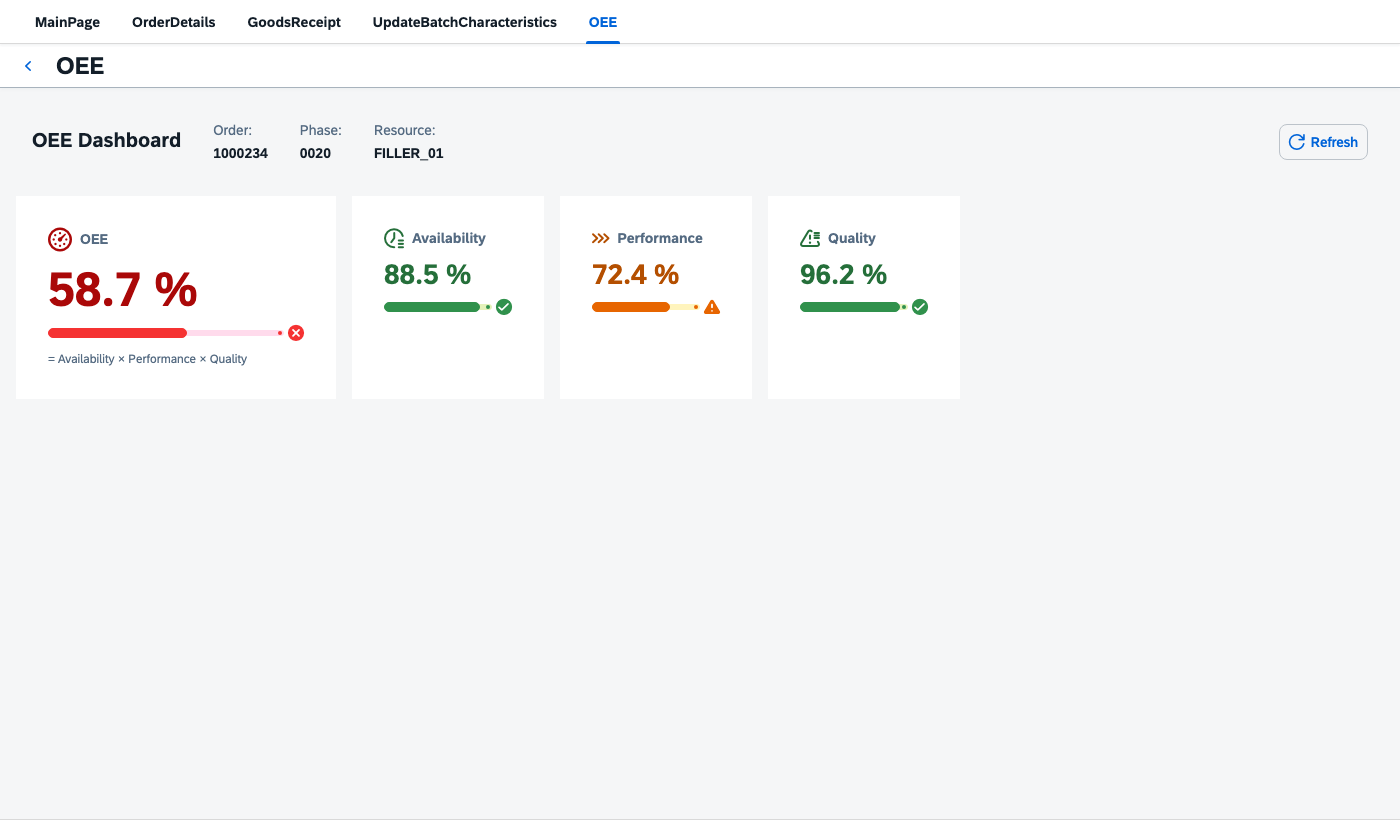
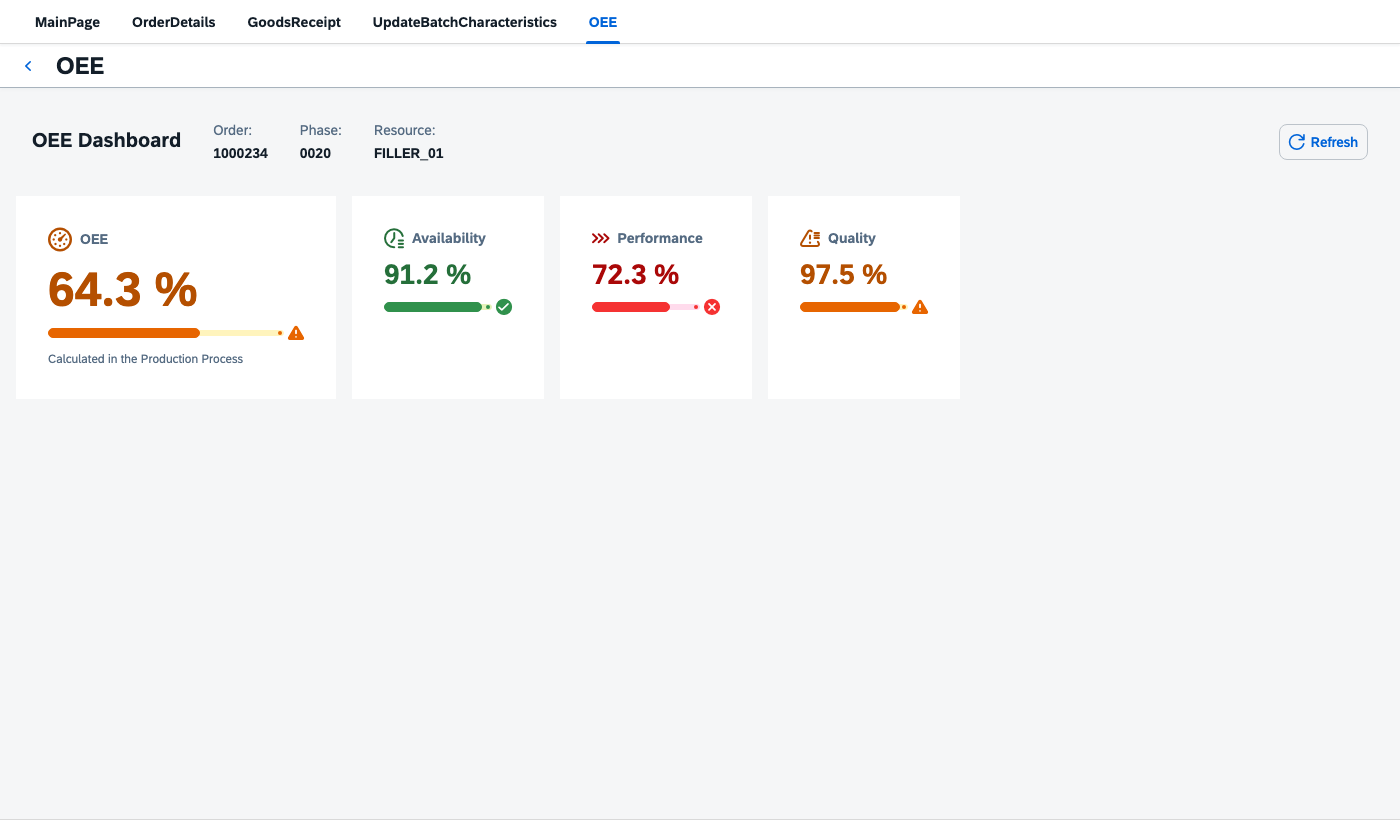
Review fixes: consistent OEE sample values, per-KPI thresholds, PP-calculated caption, wording

diff --git a/README.md b/README.md
@@ -13,7 +13,7 @@ Most POD requirements end in one of two places: hours of clicking in the designe
 
 This skill takes neither route. **No development happens.** Everything it generates is standard POD 2.0 configuration:
 
-- only **standard SAP plugins and actions**, taken from verified exports, never invented class names;
+- only **standard SAP plugins and actions**, limited to classes verified from real exports (anything unverified is flagged);
 - standard bindings and expressions on the **POD context** (`{/workList/…}`, `{/execution/…}`, `{= … }`);
 - data from **Production Processes** you already model in DM, called through the standard Production Process action.
 
@@ -45,7 +45,7 @@ You need **Node.js** (any recent LTS). The scripts use only Node built-ins: no `
 git clone https://github.com/robertriedel/POD2_Config_Skill.git
 ```
 
-- **Joule Desktop:** add the cloned folder as a skill in your Joule Desktop skill settings.
+- **Joule Desktop:** add the cloned folder as a skill in Joule Desktop (see the Joule Desktop documentation for where skills are configured).
 - **Claude Code:** clone it straight into the skills folder, then start a new session:
 
   ```bash
@@ -92,17 +92,19 @@ The spec is the whole design:
                { "label": "Resource", "path": "/execution/operationActivity/lastSelected/resource" } ],
   "fields": [
     { "source": "pp:outOEE", "label": "OEE", "scale": "percent", "thresholds": [60, 85],
-      "hero": true, "icon": "sap-icon://performance", "caption": "= Availability × Performance × Quality" },
-    { "source": "pp:outAvailability", "label": "Availability", "scale": "percent", "thresholds": [60, 85], "icon": "sap-icon://time-entry-request" },
-    { "source": "pp:outPerformance",  "label": "Performance",  "scale": "percent", "thresholds": [60, 85], "icon": "sap-icon://process" },
-    { "source": "pp:outQuality",      "label": "Quality",      "scale": "percent", "thresholds": [60, 85], "icon": "sap-icon://quality-issue" }
+      "hero": true, "icon": "sap-icon://performance", "caption": "Calculated in the Production Process" },
+    { "source": "pp:outAvailability", "label": "Availability", "scale": "percent", "thresholds": [80, 90], "icon": "sap-icon://time-entry-request" },
+    { "source": "pp:outPerformance",  "label": "Performance",  "scale": "percent", "thresholds": [80, 95], "icon": "sap-icon://process" },
+    { "source": "pp:outQuality",      "label": "Quality",      "scale": "percent", "thresholds": [95, 99], "icon": "sap-icon://quality-issue" }
   ]
 }
 ```
 
-**Page enter.** Because the spec targets a page, the data load is wired to the page's own `pageEnter` event: `OEE_Busy` (BusyIndicator) → `OEE_LoadData` (synchronous Production Process call, output stored in the POD variable `_oee`). The tiles bind to `/_oee/…`, so they fill as soon as the page opens; until then they show "–". Refresh re-runs the same chain. A tab target uses `tabEnter` the same way.
+**Page enter.** Because the spec targets a page, the data load is wired to the page's own `pageEnter` event: `OEE_Busy` (BusyIndicator) → `OEE_LoadData` (Production Process call, output stored in the POD variable `_oee`). The tiles bind to `/_oee/…`, so they fill as soon as the page opens; until then they show "–". Refresh re-runs the same chain. A tab target uses `tabEnter` the same way.
 
 ![The OEE button in the order details header](docs/img/oee-button.png)
+
+The output is only stored when the Production Process action runs synchronously; check its call type once in the designer after import. Thresholds are set per KPI (OEE 60/85, Availability 80/90, Performance 80/95, Quality 95/99), and the POD calculates nothing itself: all four values come from the PP.
 
 Re-running with the same prefix replaces the panel in place, so changing thresholds or tiles is a spec edit.
 
@@ -119,7 +121,7 @@ Re-running with the same prefix replaces the panel in place, so changing thresho
 | `context` | Label/path pairs shown in the panel header |
 | `fields[].source` | `pp:<output>` or any POD context path |
 | `scale` | `percent` (0–100) or `fraction` (0–1, shown ×100) |
-| `thresholds` | `[low, high]` on the display scale: red below low, orange below high, green above |
+| `thresholds` | `[low, high]` on the display scale: red below low, orange below high, green at or above high |
 | `lowerIsBetter` | Inverts the colours (scrap, downtime) |
 | `type` | `number` (default), `string` or `boolean` (`trueText`/`falseText`, `trueIsBad`) |
 | `hero`, `icon`, `caption`, `unit`, `decimals` | Presentation |
